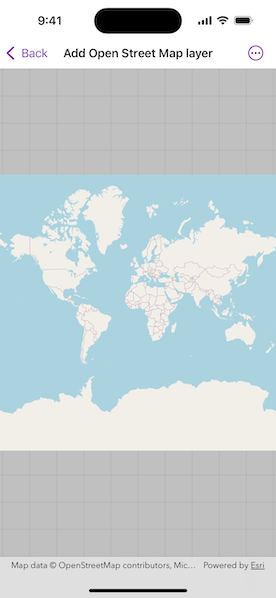
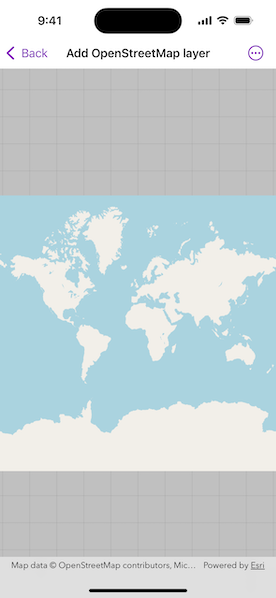
update sample

diff --git a/Shared/Samples/Add OpenStreetMap layer/AddOpenStreetMapLayerView.swift b/Shared/Samples/Add OpenStreetMap layer/AddOpenStreetMapLayerView.swift
@@ -16,7 +16,7 @@ import ArcGIS
 import SwiftUI
 
 struct AddOpenStreetMapLayerView: View {
-    @State private var map = Map(basemapStyle: .osmStandard)
+    @State private var map = Map(basemapStyle: .openOSMStyle)
     
     var body: some View {
         MapView(map: map)

diff --git a/Shared/Samples/Add OpenStreetMap layer/README.md b/Shared/Samples/Add OpenStreetMap layer/README.md
@@ -27,10 +27,6 @@ When the sample opens, it will automatically display the map with the OpenStreet
 
 The attribution text will be set to the required OpenStreetMap attribution automatically.
 
-Apps that expect to make many requests to OpenStreetMap should consider using an alternative tile server via the `WebTiledLayer` class.
-
-Esri now hosts an [OpenStreetMap vector layer on ArcGIS Online](http://www.arcgis.com/home/item.html?id=3e1a00aeae81496587988075fe529f71) that uses recent OpenStreetMap data in conjunction with a style matching the default OpenStreetMap style. This layer is not subject to the tile access restrictions that apply to tiles fetched from OpenStreetMap.org.
-
 ## Tags
 
 basemap, layers, map, open, OpenStreetMap, OSM, street
